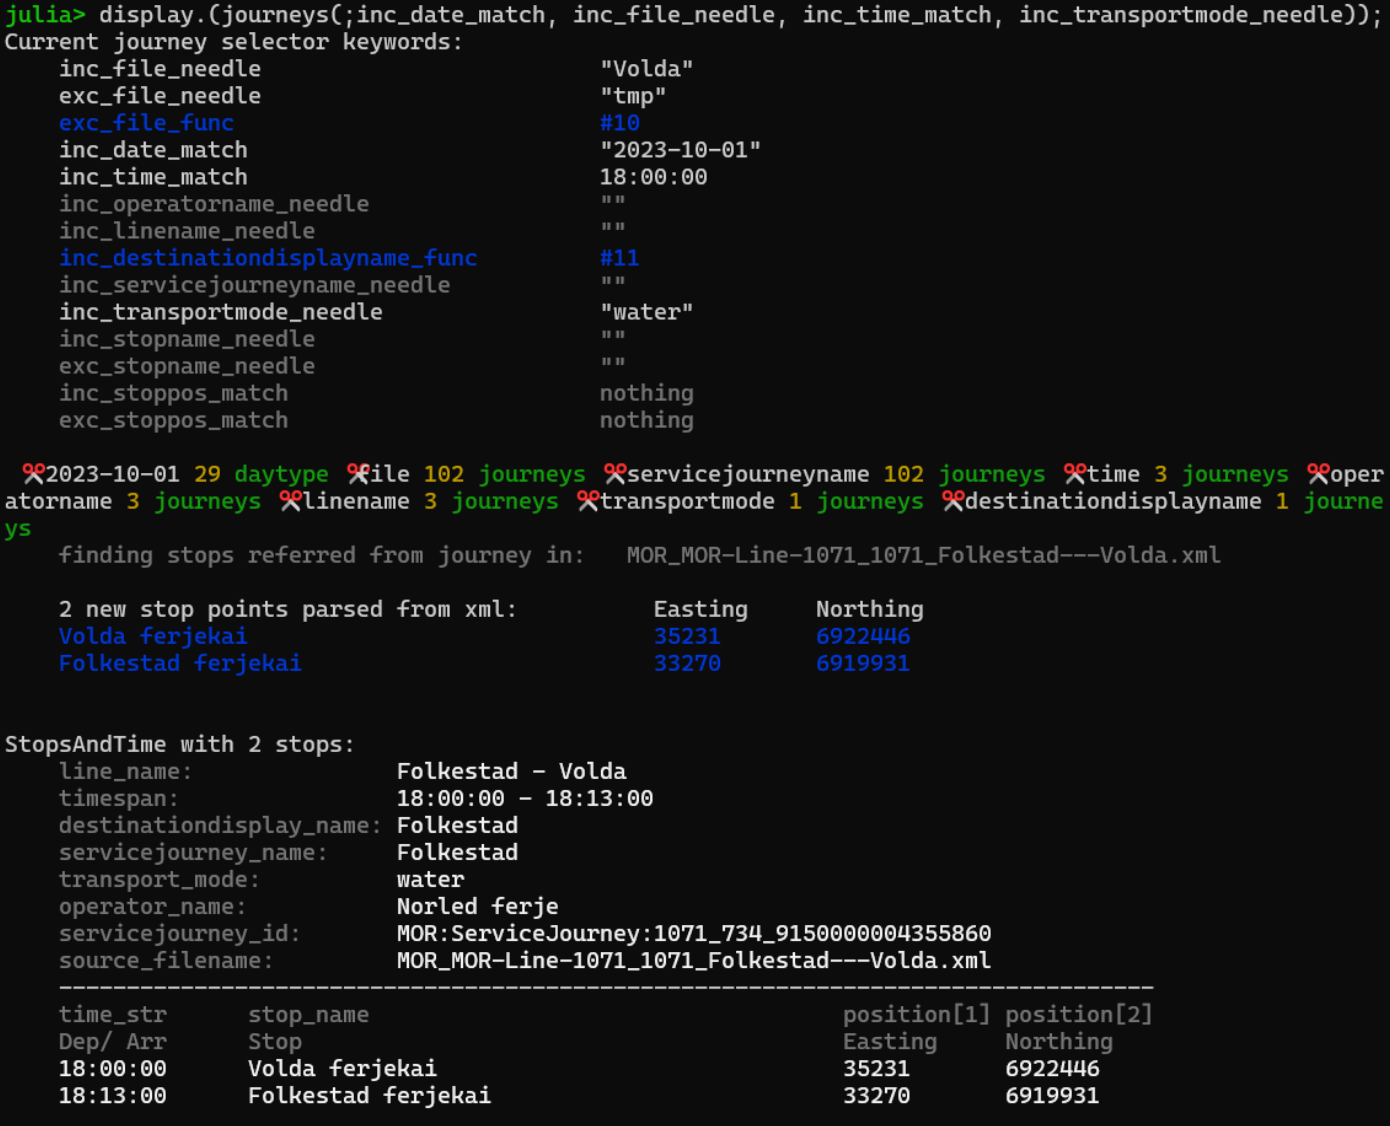
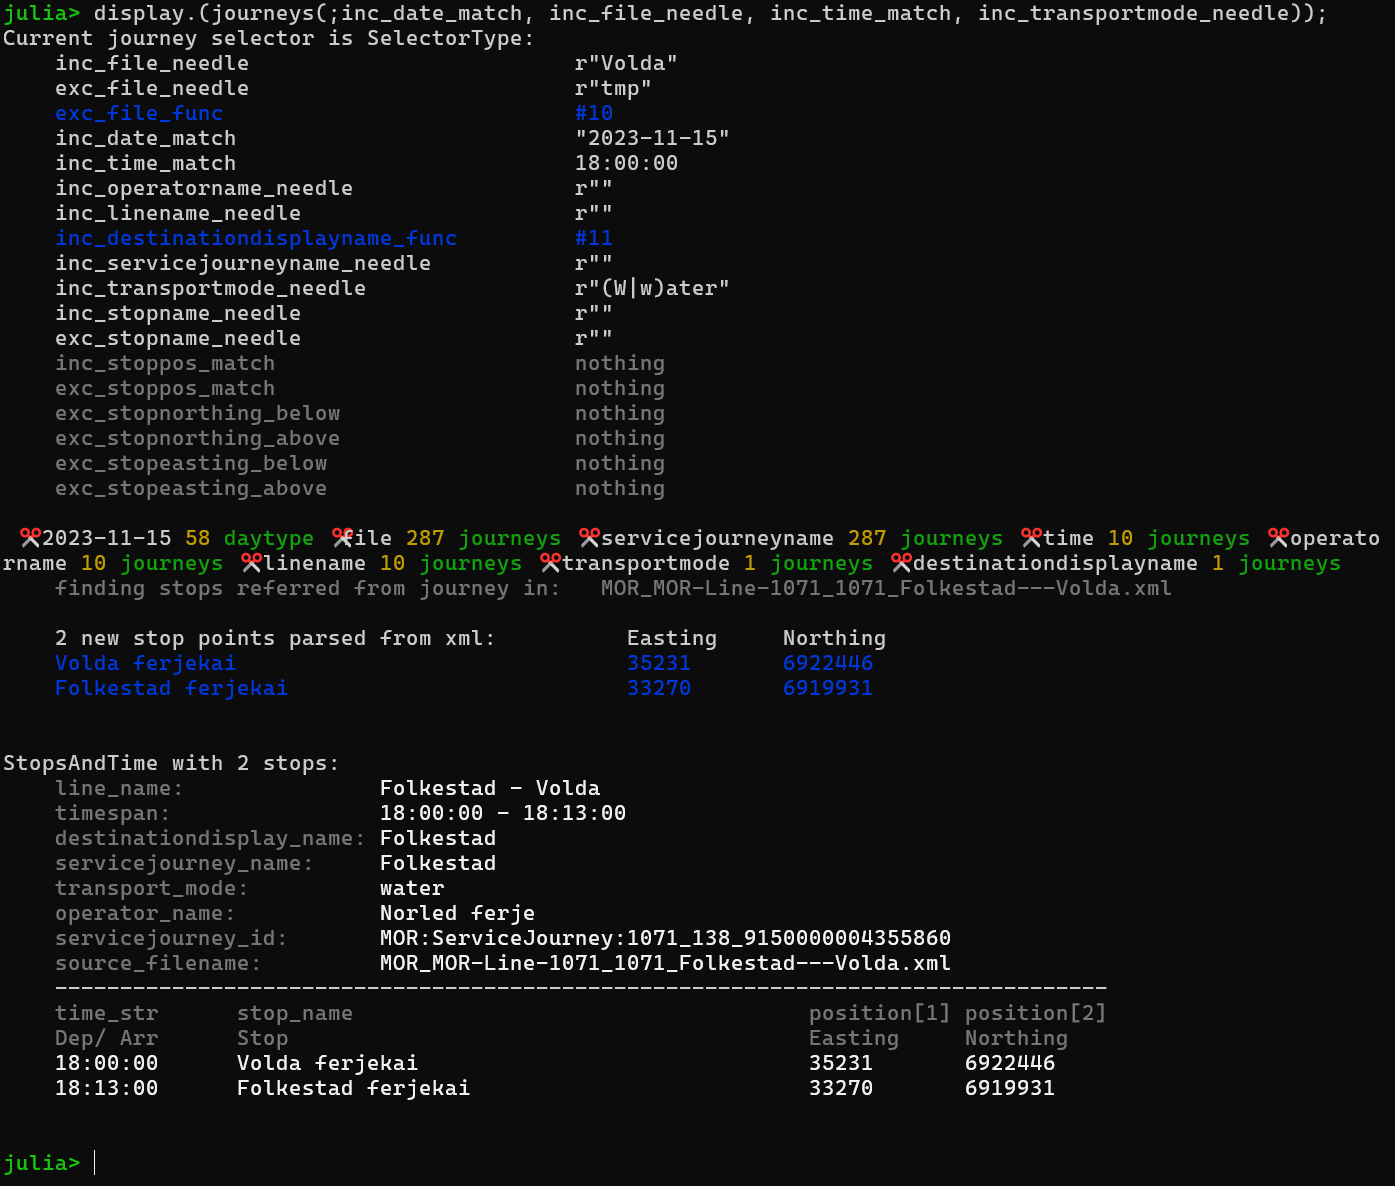
Add limiting northing and easting arguments
modified:   Project.toml 0.2.1
	modified:   README.md   Update example
	modified:   resources/example.png Update example
	modified:   src/exported.jl
	modified:   src/io.jl     Print Int64 value args
	modified:   src/stops.jl

	     More arguments.
		 Also store stops from filtered journeys

	modified:   src/timetables.jl More arguments, more feedback
	modified:   test/t_exported.jl

Changed region(s): [[0.0, 0.0, 1.0, 0.9947], [0.4331, 0.5284, 0.6806, 0.5906]]

diff --git a/README.md b/README.md
@@ -35,7 +35,7 @@ julia> begin
         inc_transportmode_needle = r"(W|w)ater"
     end;
 
-julia> # The following takes ~5 seconds the first time.
+julia> # The following takes ~8 seconds on first run.
 
 julia> display.(journeys(;inc_date_match, inc_file_needle, inc_time_match, inc_transportmode_needle));
 
